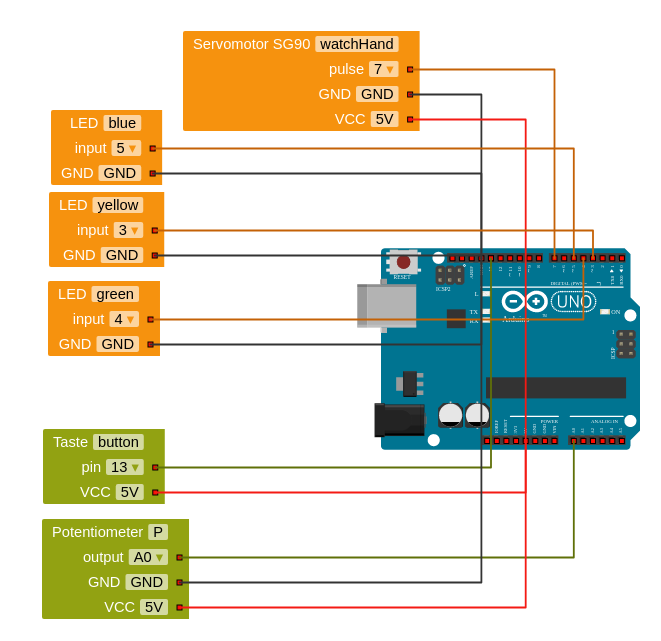
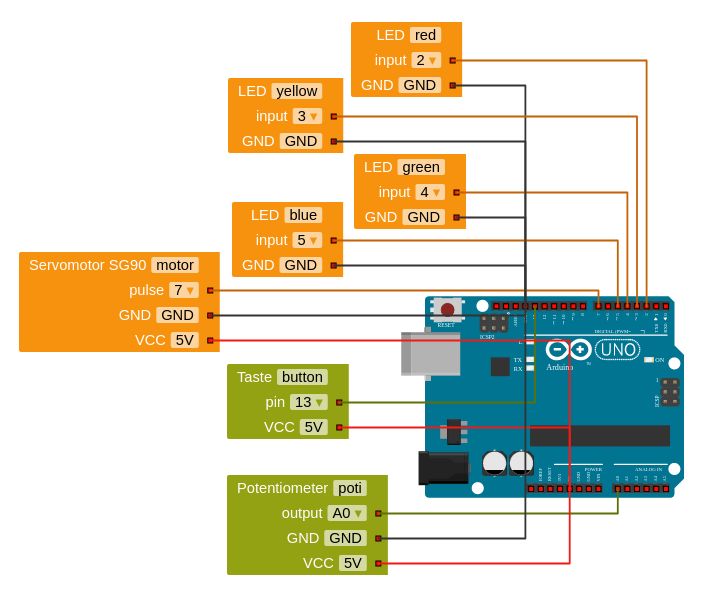
add new image

diff --git a/_posts/2020-10-15-configuration-visualization.md b/_posts/2020-10-15-configuration-visualization.md
@@ -3,5 +3,13 @@ layout: post
 title: "Visualization of the Robot's Configuration"
 author: "Beate"
 ---
+In addition to our recent changes in the configuration tab of the systems, we have added a visualization of the configuration. The configuration blocks themselves haven't changed but the board and the connections are now visible. The "wires" should give the users an idea of where the connections are located on the real microcontroller board. Changes can still only be made in the pins dropdown fields, but they are visualized immediately. The following picture shows an example of a configuration of an Arduino Uno.
 
+<img src="/assets/Conf2.png" width="500">
+And here is the corresponding documentation of the project.
+<img src="/assets/Conf_1.png" width="500">
 
+The visualization feature is available for the following systems:
+* Arduino
+* Calliope mini
+* Micro:Bit
